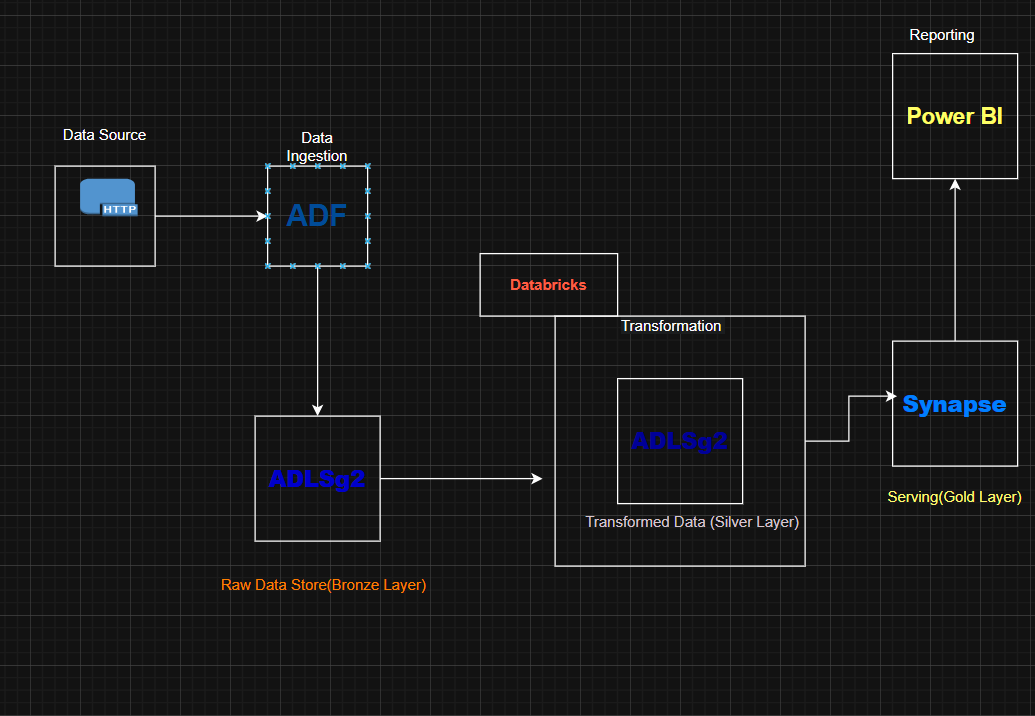
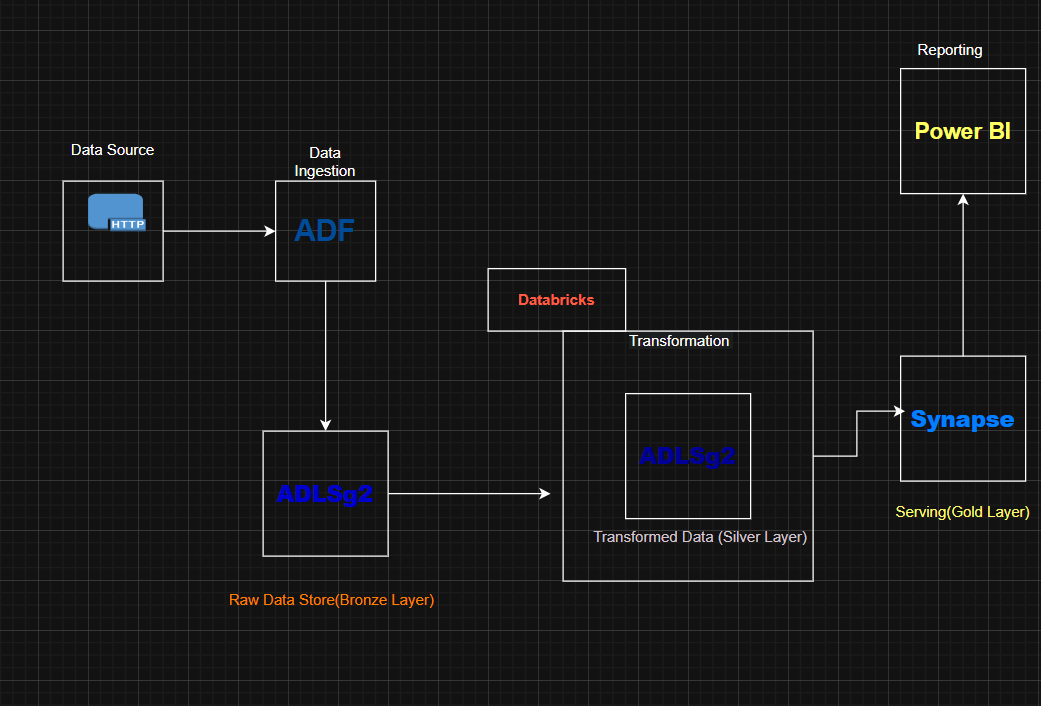
Adding The Architecture To Readme

diff --git a/README.md b/README.md
@@ -1,2 +1,7 @@
 # Azure-End-To-End-Data-Engineering-Project
 End To End Azure Data Engineering Project using Azure Data Factory ,Data Lake Storage Gen2,Databricks, Azure Synapse
+
+## Architecture
+
+![Architecture](Docs/Architecture.png)
+
